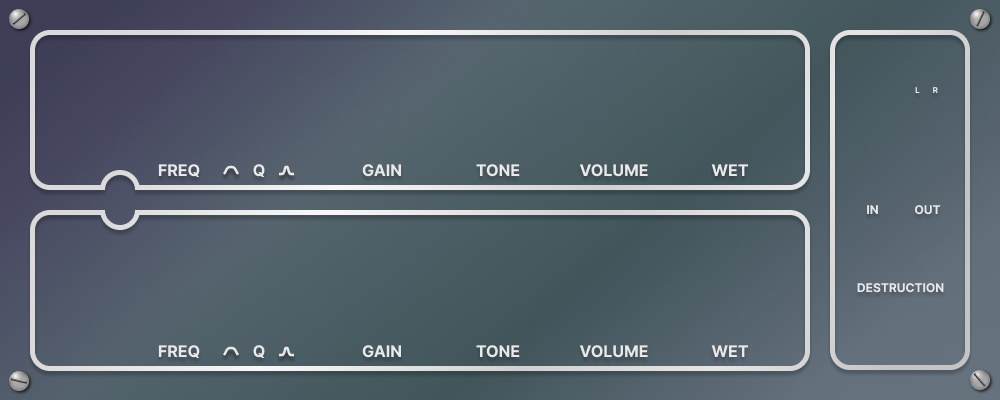
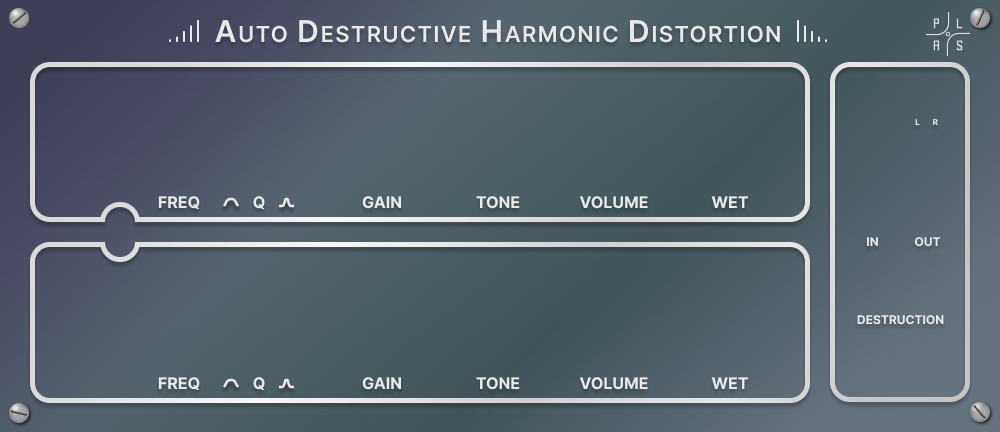
GUI Updated, default value tone filter

diff --git a/ADHD/Source/PluginEditor.cpp b/ADHD/Source/PluginEditor.cpp
@@ -171,7 +171,7 @@ ADHDAudioProcessorEditor::ADHDAudioProcessorEditor(ADHDAudioProcessor& p): Audio
        // editor's size to whatever you need it to be.
        startTimerHz(24);
     
-    setSize (1000, 400);
+    setSize (1000, 432);
 }
 
 ADHDAudioProcessorEditor::~ADHDAudioProcessorEditor()
@@ -283,14 +283,14 @@ void ADHDAudioProcessorEditor::resized()
     // subcomponents in your editor..
 
     // Link Button Bounds
-    juce::Rectangle<int> linkButtonArea(109, 181, 22, 38);
+    juce::Rectangle<int> linkButtonArea(109, 213, 22, 38);
 
     // Channels Bounds
-    juce::Rectangle<int> channelAreaL(30, 30, 780, 160);
-    juce::Rectangle<int> channelAreaR(30, 210, 780, 160);
+    juce::Rectangle<int> channelAreaL(30, 62, 780, 160);
+    juce::Rectangle<int> channelAreaR(30, 242, 780, 160);
 
     // Destroy Bounds
-    juce::Rectangle<int> destroySectionArea(830, 30, 140, 340);
+    juce::Rectangle<int> destroySectionArea(830, 62, 140, 340);
     
     const int xOffset = destroySectionArea.getX();
     const int yOffset = destroySectionArea.getY();

diff --git a/ADHD/Source/PluginProcessor.cpp b/ADHD/Source/PluginProcessor.cpp
@@ -206,8 +206,11 @@ void ADHDAudioProcessor::prepareToPlay (double sampleRate, int samplesPerBlock)
     toneFilterL.setType(juce::dsp::StateVariableTPTFilterType::lowpass);
     toneFilterR.setType(juce::dsp::StateVariableTPTFilterType::lowpass);
     
-    toneFilterL.setResonance(0.5f);
-    toneFilterR.setResonance(0.5f);
+    toneFilterL.setResonance(0.7f);
+    toneFilterR.setResonance(0.7f);
+
+    toneFilterL.setCutoffFrequency(toneFreq[0]);
+    toneFilterR.setCutoffFrequency(toneFreq[1]);
     
     rmsLevelInLeft.reset(sampleRate* pow(2, overSampFactor), 0.5);
     rmsLevelInRight.reset(sampleRate* pow(2, overSampFactor), 0.5);
@@ -435,6 +438,7 @@ void ADHDAudioProcessor::processBlock(juce::AudioBuffer<float>& buffer, juce::Mi
     // tone processing
     toneFilterL.process(juce::dsp::ProcessContextReplacing <float>(overSBlockL));
     toneFilterR.process(juce::dsp::ProcessContextReplacing <float>(overSBlockR));
+
     
     //volume application
 

diff --git a/ADHD/Source/ChannelComponent.cpp b/ADHD/Source/ChannelComponent.cpp
@@ -36,7 +36,7 @@ ChannelComponent::ChannelComponent()
     toneDial.setRange(0.0, 1.0, 1. / 128);
     toneDial.setSliderStyle(juce::Slider::SliderStyle::RotaryVerticalDrag);
     toneDial.setTextBoxStyle(juce::Slider::NoTextBox, false, 0, 0);
-    toneDial.setValue(0.5);
+    toneDial.setValue(1);
 
     outGainDial.setRange(0.0, 1.0, 1. / 128);
     outGainDial.setSliderStyle(juce::Slider::SliderStyle::RotaryVerticalDrag);

diff --git a/ADHD/Source/PluginProcessor.h b/ADHD/Source/PluginProcessor.h
@@ -83,7 +83,7 @@ private:
     float destroyGain = 0.0f;
     int overSampFactor{2};
     int lastSampleRate{44100};
-    float toneFreq[2] = { 10000.0f, 10000.0f };
+    float toneFreq[2] = { 16000.0f, 16000.0f };
 
     juce::LinearSmoothedValue<float> rmsLevelInLeft,rmsLevelInRight,rmsLevelOutLeft,rmsLevelOutRight;
     juce::LinearSmoothedValue<float> magLevelInLeft,magLevelInRight,magLevelOutLeft,magLevelOutRight;
